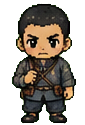
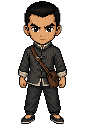
feat: refresh Dong Yunting body asset

diff --git a/scripts/prepare_ch03_dong_assets.py b/scripts/prepare_ch03_dong_assets.py
@@ -1,44 +1,63 @@
-"""Extract the Chapter 3 Dong Yunting runtime assets from the supplied board.
+"""Build the Chapter 3 Dong Yunting runtime assets from the supplied character art.
 
-The delivered board uses a green background and keeps the historical character
-name at the source boundary.  The game-facing asset key is intentionally named
-``ch03-dong-yunting`` so player-facing dialogue remains aligned with the
-current Chapter 3 script.
+The current delivery is a three-view front/side/back pixel character set.  The
+runtime only needs a front-facing body and a dialogue portrait, so this script
+removes the checkerboard matte, keeps the proportions intact, and fits the
+results into the existing runtime contracts (85x125 and 295x300).
+
+The source filename may still contain the old provenance name.  It is not a
+player-facing identity; the runtime key remains ``ch03-dong-yunting``.
 """
 
 from __future__ import annotations
 
+from collections import deque
 from pathlib import Path
 
 from PIL import Image
 
 
 PROJECT = Path(__file__).resolve().parents[1]
-SOURCE = Path(r"D:\美术资产\第3章 美术资产\Chapter3_character\董锦堂、年长队员、受伤队员素材.png")
+SOURCE = Path(r"C:\Users\35636\Downloads\export (2)\彭国材_二次元像素_三视图_正面.png")
+LEGACY_SOURCE = Path(r"D:\美术资产\第3章 美术资产\Chapter3_character\董锦堂、年长队员、受伤队员素材.png")
 OUT = PROJECT / "public" / "assets" / "characters" / "ch03-dong-yunting"
 
-# Top band: the first character block is the Dong Yunting reference.  Keep a
-# front idle pose for the arena and the large neutral portrait for dialogue.
-CROPS = {
-    "idle.png": (470, 145, 555, 315),
-    "avatar.png": (175, 20, 470, 320),
-}
+# The supplied front-view sheet is 672x992. The same framing is retained in
+# the source so the body crop can be regenerated without introducing a
+# stretch. The existing dialogue avatar is intentionally not regenerated:
+# that portrait has already been approved for the dialogue box.
+OUTPUT_SIZES = {"idle.png": (85, 125)}
 
 
-def keyed(image: Image.Image) -> Image.Image:
+def is_checkerboard(pixel: tuple[int, int, int, int]) -> bool:
+    r, g, b, _ = pixel
+    return max(r, g, b) - min(r, g, b) <= 8 and min(r, g, b) >= 220
+
+
+def remove_external_checkerboard(image: Image.Image) -> Image.Image:
+    """Make only the outside checkerboard transparent, preserving light clothes."""
+
     rgba = image.convert("RGBA")
     pixels = rgba.load()
-    for y in range(rgba.height):
-        for x in range(rgba.width):
-            r, g, b, _ = pixels[x, y]
-            green_strength = g - max(r, b)
-            if g >= 90 and green_strength >= 45:
-                alpha = 0
-            elif g >= 80 and green_strength >= 12:
-                alpha = max(0, min(255, int((45 - green_strength) * 255 / 33)))
-            else:
-                alpha = 255
-            pixels[x, y] = (r, g, b, alpha)
+    visited: set[tuple[int, int]] = set()
+    queue: deque[tuple[int, int]] = deque()
+
+    for x in range(rgba.width):
+        queue.extend(((x, 0), (x, rgba.height - 1)))
+    for y in range(1, rgba.height - 1):
+        queue.extend(((0, y), (rgba.width - 1, y)))
+
+    while queue:
+        x, y = queue.popleft()
+        if (x, y) in visited or not (0 <= x < rgba.width and 0 <= y < rgba.height):
+            continue
+        visited.add((x, y))
+        if not is_checkerboard(pixels[x, y]):
+            continue
+        r, g, b, _ = pixels[x, y]
+        pixels[x, y] = (r, g, b, 0)
+        queue.extend(((x + 1, y), (x - 1, y), (x, y + 1), (x, y - 1)))
+
     return rgba
 
 
@@ -54,13 +73,28 @@ def trim(image: Image.Image, padding: int = 5) -> Image.Image:
     return image.crop((left, top, right, bottom))
 
 
+def fit_on_canvas(image: Image.Image, size: tuple[int, int], *, bottom: bool) -> Image.Image:
+    canvas = Image.new("RGBA", size, (0, 0, 0, 0))
+    scale = min(size[0] / image.width, size[1] / image.height)
+    resized = image.resize(
+        (max(1, round(image.width * scale)), max(1, round(image.height * scale))),
+        Image.Resampling.NEAREST,
+    )
+    x = (size[0] - resized.width) // 2
+    y = size[1] - resized.height if bottom else (size[1] - resized.height) // 2
+    canvas.alpha_composite(resized, (x, y))
+    return canvas
+
+
 def main() -> None:
-    if not SOURCE.exists():
-        raise SystemExit(f"missing source board: {SOURCE}")
-    source = Image.open(SOURCE)
+    source_path = SOURCE if SOURCE.exists() else LEGACY_SOURCE
+    if not source_path.exists():
+        raise SystemExit(f"missing source art: {SOURCE} (fallback: {LEGACY_SOURCE})")
+    source = remove_external_checkerboard(Image.open(source_path))
+    body = trim(source, padding=4)
     OUT.mkdir(parents=True, exist_ok=True)
-    for name, box in CROPS.items():
-        output = trim(keyed(source.crop(box)))
+    outputs = {"idle.png": fit_on_canvas(body, OUTPUT_SIZES["idle.png"], bottom=True)}
+    for name, output in outputs.items():
         output.save(OUT / name, "PNG", optimize=True)
         print(f"{OUT / name}: {output.width}x{output.height}")
 

diff --git a/docs/ch03_character_asset_catalog.md b/docs/ch03_character_asset_catalog.md
@@ -7,17 +7,21 @@
 | 陈继南            | 仓库既有 `chenWalk` 与 `ch02-chen/avatar.png`                                      | 既有资源                                                                       | 玩家行走、心理描写头像       |
 | 组长              | 第二章已去绿幕角色板及其仓库运行图                                                 | `assets/ch02/actors/ch02_npc_group_leader.png`、`ch02-group-leader/avatar.png` | 风险预检查发言、地图站位     |
 | 年轻队员/普通队员 | 第二章已去绿幕角色板及其仓库运行图                                                 | `assets/ch02/actors/ch02_npc_young_member.png` 等                              | 等待队伍与前方辅助队员       |
+| 董云庭            | `C:\Users\35636\Downloads\export (2)` 正面三视图；对话头像沿用已确认版本 | `ch03-dong-yunting/idle.png`、`ch03-dong-yunting/avatar.png`                   | 固定历史节点、战斗协同与战后集结 |
 | 年长队员          | `D:\美术资产\第3章 美术资产\Chapter3_character\董锦堂、年长队员、受伤队员素材.png` | `ch03-elder-member/idle.png`、`ch03-elder-member/avatar.png`                   | 身份风险偏高时的陪同支援角色 |
 
 ## 第三章素材板的后续候选
 
-- `彭国材.png`：后续攻门历史节点候选，当前不在“风险预检查”场景中使用。
+- `彭国材.png`：彭定邦的旧素材文件名/来源边界；运行时角色名统一为“彭定邦”。
 - `团丁、亲信.png`：后续外围监视、杜家大院内外的对立角色候选。
 - `余老五.png`：旧命名素材，不能直接当作当前剧本的“杜老三”；待角色命名和史实口径确认后再资产化。
-- `董锦堂、年长队员、受伤队员素材.png` 中的“董锦堂”板块：当前剧本采用“董云庭”版本，不能直接把旧名写入玩家可见文本。
+- `export (2)` 的正面图已用于生成新的董云庭运行时身体图；侧面/背面暂不接入，因为当前切片没有对应的方向动画契约。
+- `ch03-dong-yunting/avatar.png` 保留原已确认头像，不随身体素材同步替换。
+- `董锦堂、年长队员、受伤队员素材.png` 继续作为年长队员/受伤队员与旧版本董云庭的历史素材板保留。
+- “董锦堂”只保留在原始美术文件名这一来源边界，不是第二个运行时角色名；代码、对话、头像目录和战斗标签统一使用“董云庭”。
 
 ## 处理规则
 
 1. 原始素材板保留在美术资产目录，不复制到运行时并不透明的绿幕板。
-2. `scripts/prepare_ch03_character_assets.py` 用固定裁切框和绿幕抠图生成本切片需要的透明 PNG；重新运行可复现结果。
+2. `scripts/prepare_ch03_dong_assets.py` 从当前交付的正面三视图去除棋盘底并生成 `idle.png`；脚本不会覆盖已确认的对话头像。
 3. 地图只生成静态 NPC，不在本场过度建设人群 AI；行动权限由风险快照派生，角色表现由场景状态驱动。

diff --git a/docs/DEVELOPMENT_STATUS_AUDIT_2026-08-21.md b/docs/DEVELOPMENT_STATUS_AUDIT_2026-08-21.md
@@ -29,7 +29,7 @@
 
 - 序章至第四章的正式入口、章节收束和固定历史节点均由内容锁与章节契约检查。
 - 第三章七个正式选择均为 A/B/C/D，且节点级画像、风险和标签与当前剧本逐项对应。
-- 第四章场景一至六、涂济洲、彭国材、杜家团防和王爷庙地点文本均有契约锁。
+- 第四章场景一至六、涂济洲、彭定邦、杜家团防和王爷庙地点文本均有契约锁；彭国材仅保留在旧素材文件名的来源边界。
 - 第二章地图预览模式不再弹出“剧情尚未接入/接入点”类开发文案，避免玩家把编辑器对象误认为正式任务。
 
 ### 2. 画面、章节衔接和音频
@@ -50,7 +50,7 @@
 
 - 对话头像使用统一 `avatarCatalog`，发言者名称、人物头像和场景角色不再在各场景内重复硬编码。
 - 第三章年长队员、彭定邦运行时素材改用透明裁切后的三/四头身资产，修正了原始绿底/棋盘底不能直接进场的问题。
-- 新素材表中的“董锦堂”没有被静默别名为“董云庭”；两者名称不一致时保留原有历史人物绑定，避免错误替换。董云庭仍使用专用角色与武器层。
+- 运行时与玩家可见文本统一使用“董云庭”；本轮只将 `export (2)` 正面人物素材转换为 `ch03-dong-yunting/idle.png`，保留已确认的 `ch03-dong-yunting/avatar.png` 对话头像不变。“董锦堂”仅保留在旧美术来源文件名/史料来源边界，不作为第二个运行时角色。
 - 人物显示高度通过 actor visual profile 控制；前景遮挡、碰撞底部和深度排序继续由统一 actor/collider 配置处理。
 
 ### 5. 后端核心系统与保存
